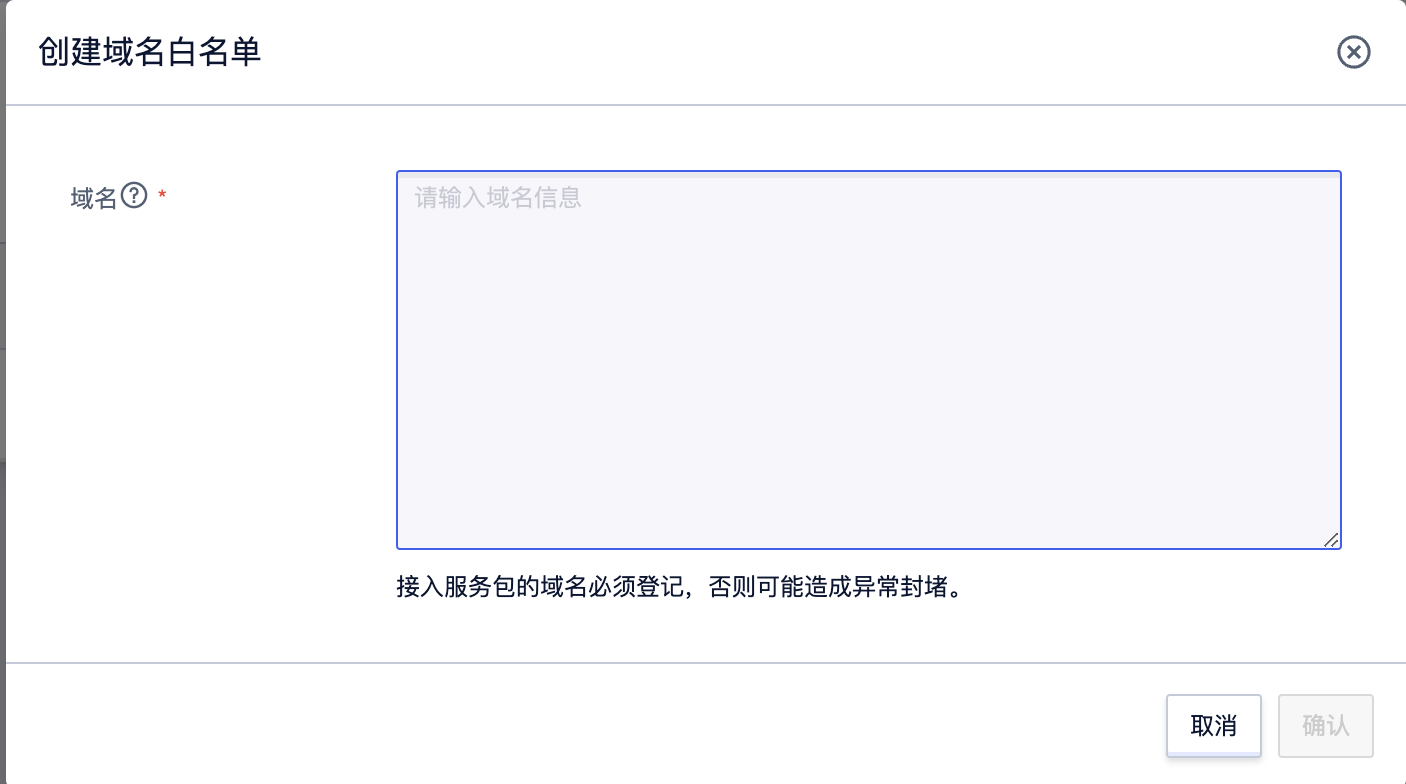
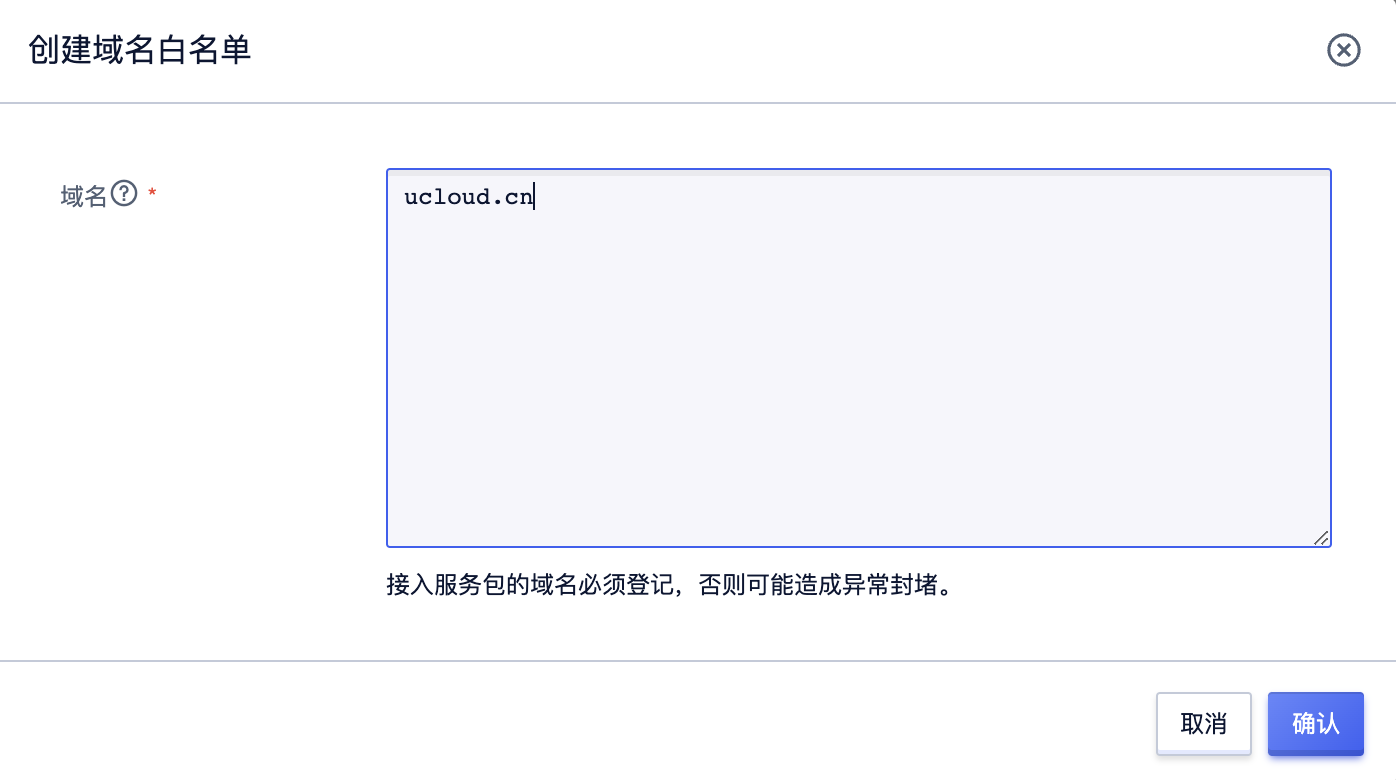
更新域名加白编辑图片

diff --git a/uadssp/opintro/domain_mgmt.md b/uadssp/opintro/domain_mgmt.md
@@ -1,8 +1,9 @@
 # 域名白名单管理
 
     注意：
-    所有解析到高防IP上的主域名都需要添加。如将www.a.com和www.b.net解析到高防IP，需要添加a.com和b.net即可。
-    添加的域名必须为已经完成备案，否则将添加失败。
+    1. 所有解析到高防IP上的主域名都需要添加。
+    2. 仅支持主域名，例如：ucloud.cn，无效输入*.ucloud.cn,www.ucloud.cn。
+    3. 添加的域名必须为已经完成备案，否则将添加失败。
 
 在初次完成购买抗D服务包并激活后，需要增加新的域名
 
